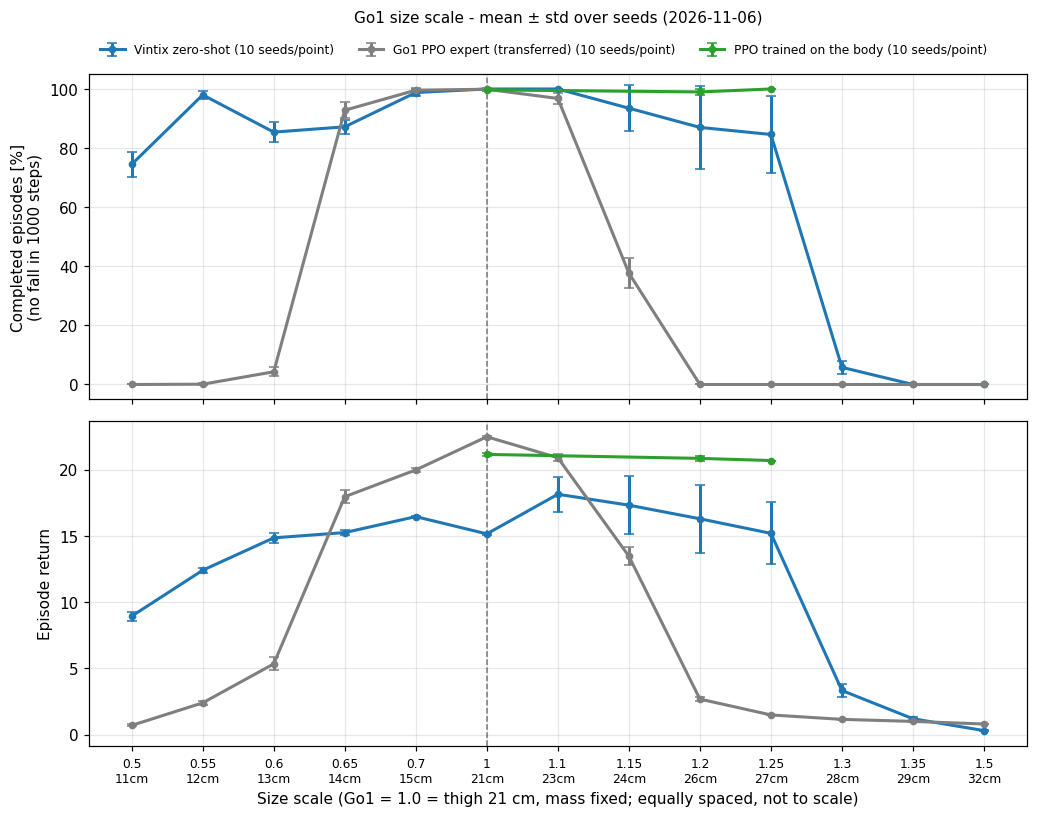
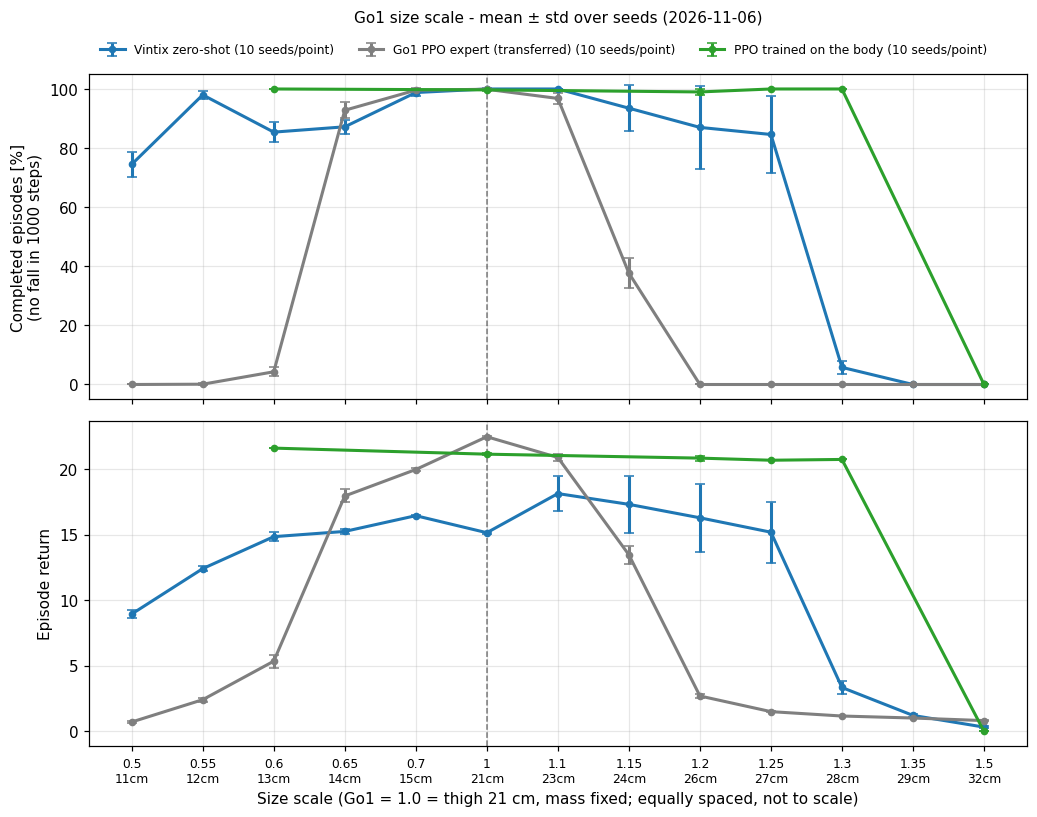
go1_body_scale_zeroshot: PPO walks 100% at size 0.6x/1.3x as pre-registered, but the size-1.5x run collapsed into 4-step self-termination, so 1.5x is not yet shown to be a body limit (#9) (autopilot tick)

diff --git a/vintix_go2/go1_body_scale_zeroshot/make_figures.py b/vintix_go2/go1_body_scale_zeroshot/make_figures.py
@@ -239,6 +239,48 @@ def plot_completion_by_episode(axis: str, scales: List[float], max_episodes: int
     return out
 
 
+def plot_ppo_learning_curves(out: Path) -> Path:
+    """Mean training episode length of the from-scratch PPO runs, one line per body scale.
+
+    Early in training every run first learns to end episodes quickly (the per-step reward is still
+    negative and falling is not penalized); the dip gets deeper and longer for bigger bodies.
+    """
+    import matplotlib
+
+    matplotlib.use("Agg")
+    import matplotlib.pyplot as plt
+    from tensorboard.backend.event_processing.event_accumulator import EventAccumulator
+
+    fig, axes = plt.subplots(1, 2, figsize=(10, 3.6), sharey=True)
+    for ax, axis in zip(axes, ("mass", "size")):
+        runs = sorted((EXP_DIR / "ppo" / axis).glob("s*"), key=lambda d: float(d.name[1:].replace("p", ".")))
+        cmap = plt.get_cmap("viridis")
+        for k, d in enumerate(runs):
+            events = sorted(d.glob("events.out.tfevents*"))
+            if not events or not (d / "train_info.json").exists():
+                continue
+            ea = EventAccumulator(str(events[-1]), size_guidance={"scalars": 0})
+            ea.Reload()
+            pts = ea.Scalars("Train/mean_episode_length")
+            ax.plot([p.step for p in pts], [p.value for p in pts], color=cmap(k / max(len(runs) - 1, 1)), lw=1.2,
+                    label=f"x{float(d.name[1:].replace('p', '.')):g}")
+        ax.set_yscale("log")
+        ax.set_xlim(0, 250)
+        ax.set_title(f"{axis} axis: PPO trained on each body (1 run each)", fontsize=9)
+        ax.set_xlabel("training iteration", fontsize=8)
+        ax.grid(True, which="both", alpha=0.3)
+        ax.tick_params(labelsize=7)
+        ax.legend(fontsize=7, ncol=2, loc="lower right")
+    axes[0].set_ylabel("mean episode length [steps] (log, 1000 = no fall)", fontsize=8)
+    fig.suptitle(f"PPO learning: early dip to short episodes, size x1.5 never recovers ({time.strftime('%Y-%m-%d')})",
+                 fontsize=10)
+    fig.tight_layout()
+    out.parent.mkdir(parents=True, exist_ok=True)
+    fig.savefig(out, dpi=110, bbox_inches="tight")
+    plt.close(fig)
+    return out
+
+
 def main() -> None:
     p = argparse.ArgumentParser()
     p.add_argument("--max_episodes", type=int, default=10)
@@ -256,6 +298,7 @@ def main() -> None:
                                           FIG_DIR / f"vintix_{axis}_first_episode_predictor_{args.tag}.png"))
         print(plot_completion_by_episode(axis, [1.15, 1.2, 1.25, 1.3], args.max_episodes,
                                          FIG_DIR / f"{axis}_completion_by_episode_{args.tag}.png"))
+    print(plot_ppo_learning_curves(FIG_DIR / f"ppo_learning_curves_{args.tag}.png"))
 
 
 if __name__ == "__main__":

diff --git a/RESEARCH_OBJECTIVES.md b/RESEARCH_OBJECTIVES.md
@@ -8,4 +8,4 @@
 
 | 目的 | Notion ページ | 実験ディレクトリ（ブランチ） | Issue |
 |------|---------------|------------------------------|-------|
-| 体の違いとゼロショット適応の限界: どれくらい体が違うとアルゴリズム蒸留（Vintix）だけではうまく適応できないかを調べる | [体の違いとゼロショット適応の限界](https://app.notion.com/p/40cd65e6123f81b3be04fe61479b7c70)（page_id `40cd65e6-123f-81b3-be04-fe61479b7c70`） | `vintix_go2/go1_body_scale_zeroshot/`（`exp/go1-body-scale-zeroshot`） | [#1](https://github.com/ishiishiishii/vintix/issues/1)（目的）、[#2](https://github.com/ishiishiishii/vintix/issues/2)（刻み・10 シード・PPO）、[#3](https://github.com/ishiishiishii/vintix/issues/3)（設計の合意）、[#4](https://github.com/ishiishiishii/vintix/issues/4)（PPO・AD データ）、[#5](https://github.com/ishiishiishii/vintix/issues/5)（Go2 原因切り分け）、[#7](https://github.com/ishiishiishii/vintix/issues/7)（質量 × 脚の長さ仮説の検証）、[#8](https://github.com/ishiishiishii/vintix/issues/8)（Vintix の環境ごとの二極化） |
+| 体の違いとゼロショット適応の限界: どれくらい体が違うとアルゴリズム蒸留（Vintix）だけではうまく適応できないかを調べる | [体の違いとゼロショット適応の限界](https://app.notion.com/p/40cd65e6123f81b3be04fe61479b7c70)（page_id `40cd65e6-123f-81b3-be04-fe61479b7c70`） | `vintix_go2/go1_body_scale_zeroshot/`（`exp/go1-body-scale-zeroshot`） | [#1](https://github.com/ishiishiishii/vintix/issues/1)（目的）、[#2](https://github.com/ishiishiishii/vintix/issues/2)（刻み・10 シード・PPO）、[#3](https://github.com/ishiishiishii/vintix/issues/3)（設計の合意）、[#4](https://github.com/ishiishiishii/vintix/issues/4)（PPO・AD データ）、[#5](https://github.com/ishiishiishii/vintix/issues/5)（Go2 原因切り分け）、[#7](https://github.com/ishiishiishii/vintix/issues/7)（質量 × 脚の長さ仮説の検証）、[#8](https://github.com/ishiishiishii/vintix/issues/8)（Vintix の環境ごとの二極化）、[#9](https://github.com/ishiishiishii/vintix/issues/9)（大きさ 1.5 倍の PPO の学習失敗の切り分け） |
